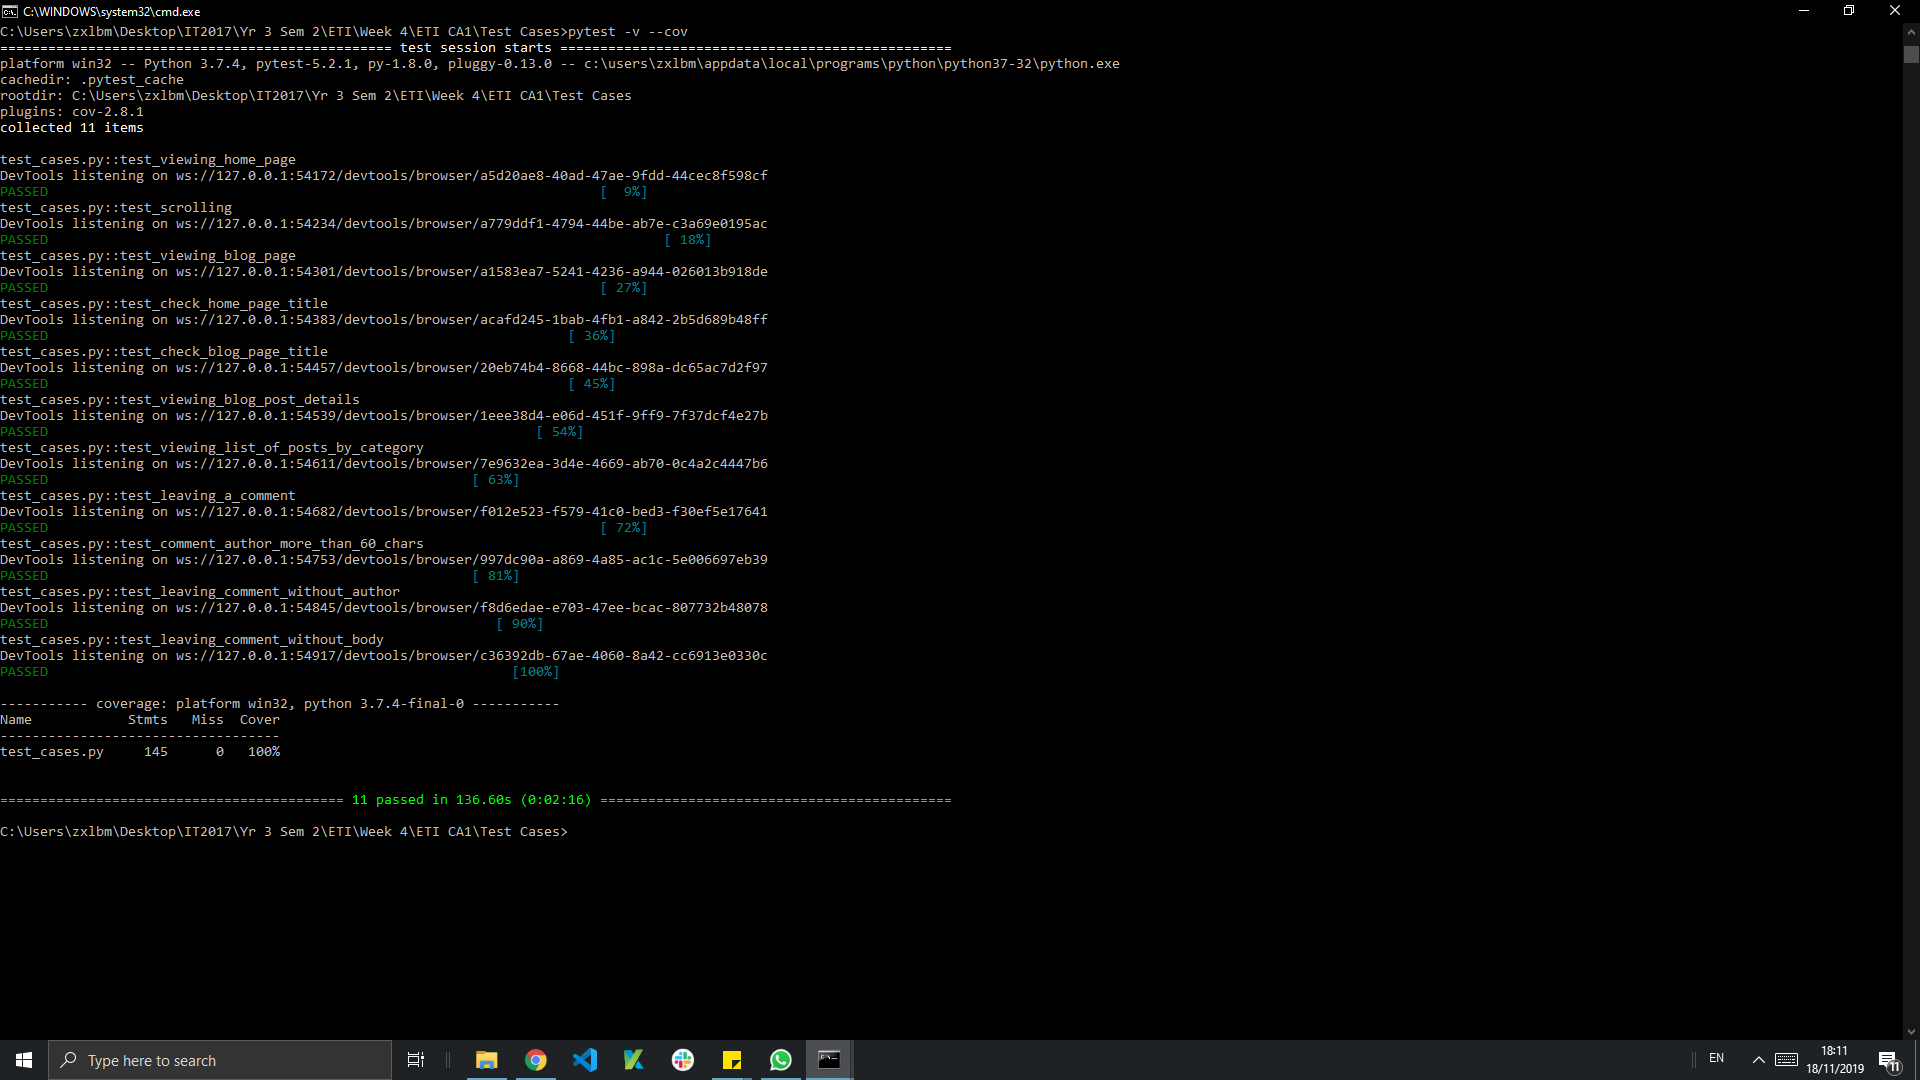
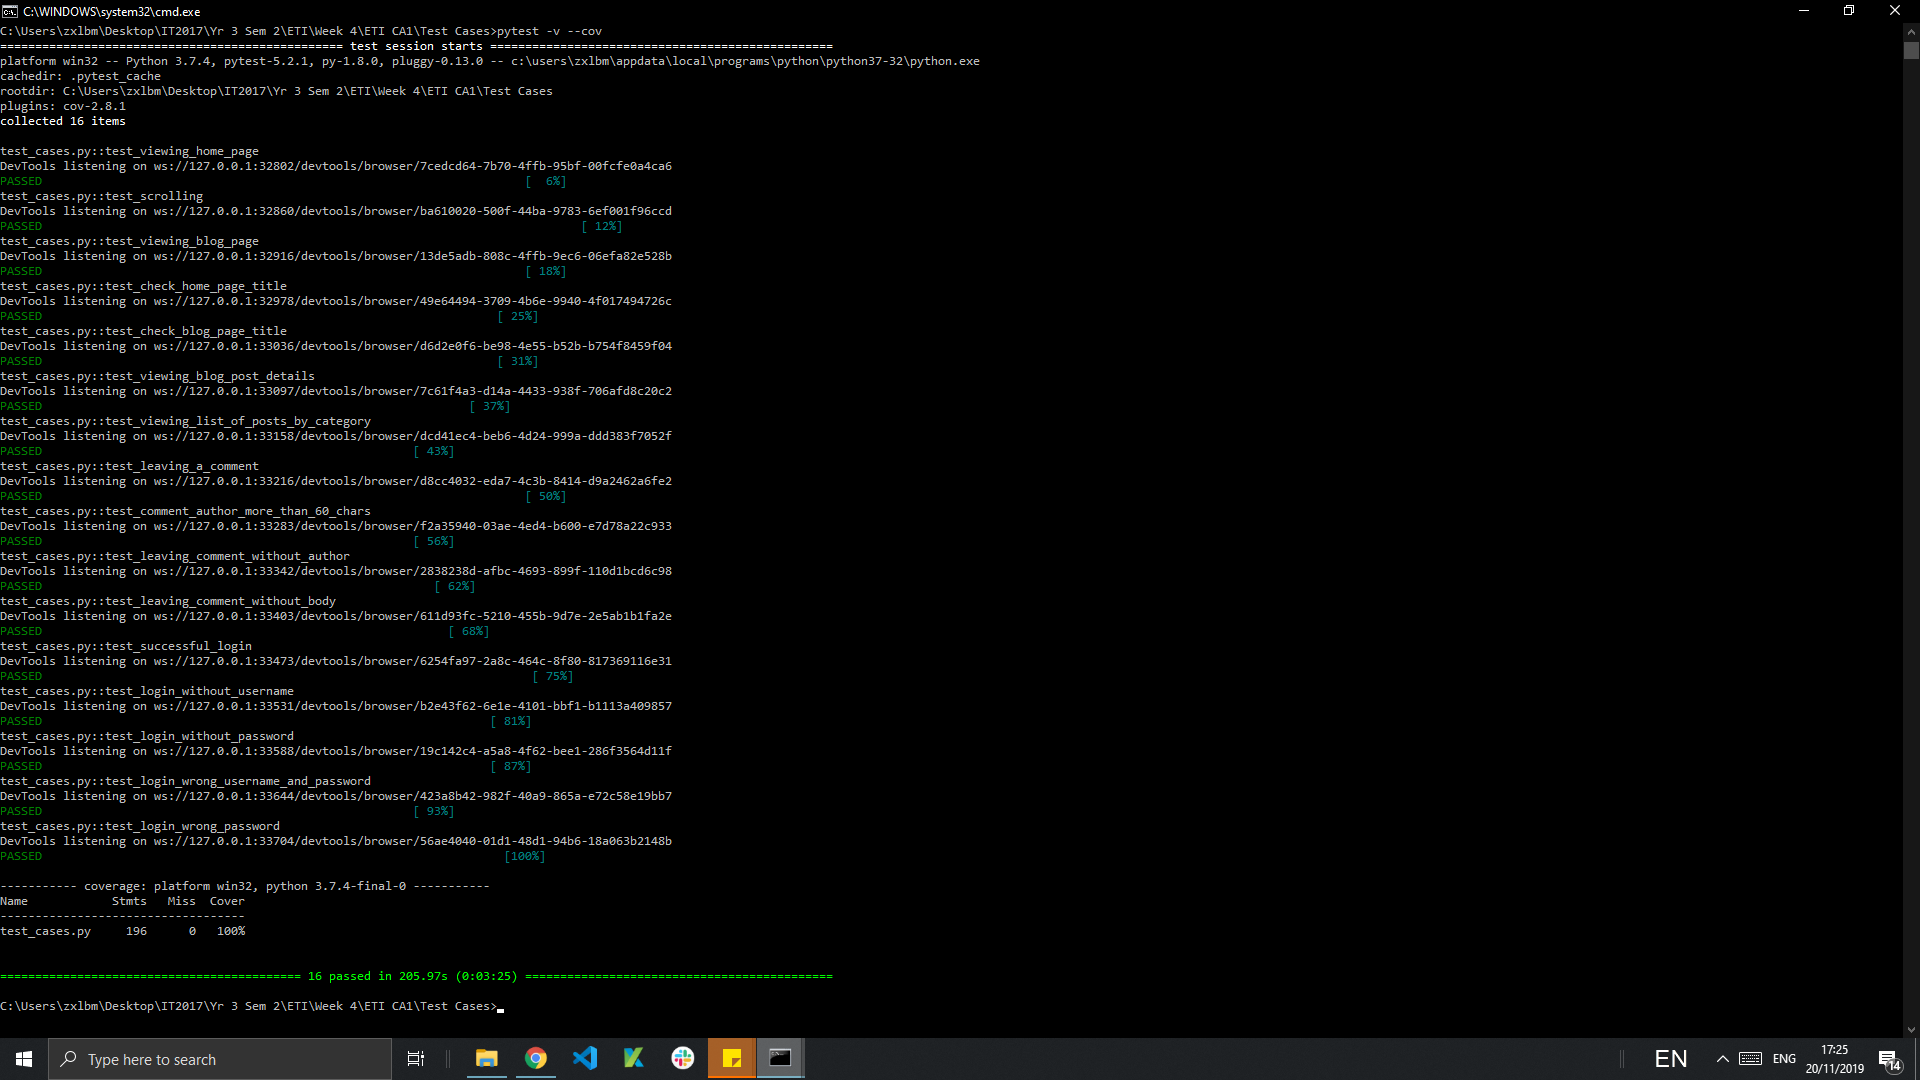
added login test cases and updated Test Outputs.png and test cases.xlsx

diff --git a/Test Cases/test_cases.py b/Test Cases/test_cases.py
@@ -212,3 +212,86 @@ def test_leaving_comment_without_body():
     assert driver.find_element_by_css_selector("textarea:invalid")
 
     driver.quit()
+
+def test_successful_login():
+    driver = webdriver.Chrome()
+    driver.maximize_window()
+    driver.get("http://localhost:8000/admin")
+
+    username_txtfld_elem = driver.find_element_by_name("username")
+    username_txtfld_elem.send_keys("zxnlee")
+
+    password_txtfld_elem = driver.find_element_by_name("password")
+    password_txtfld_elem.send_keys("P@ssw0rd")
+
+    password_txtfld_elem.send_keys(Keys.RETURN)
+
+    assert WebDriverWait(driver, 10).until(EC.presence_of_element_located((By.XPATH, "//h1[text()[contains(., 'Site administration')]]")))
+
+    driver.quit()
+    
+def test_login_without_username():
+    driver = webdriver.Chrome()
+    driver.maximize_window()
+    driver.get("http://localhost:8000/admin")
+
+    username_txtfld_elem = driver.find_element_by_name("username")
+    username_txtfld_elem.send_keys(Keys.RETURN)
+
+    assert driver.find_element_by_css_selector("input:invalid")
+
+    driver.quit()
+
+def test_login_without_password():
+    driver = webdriver.Chrome()
+    driver.maximize_window()
+    driver.get("http://localhost:8000/admin")
+
+    username_txtfld_elem = driver.find_element_by_name("username")
+    username_txtfld_elem.send_keys("zxnlee")
+
+    password_txtfld_elem = driver.find_element_by_name("password")
+
+    password_txtfld_elem.send_keys(Keys.RETURN)
+
+    assert driver.find_element_by_css_selector("input:invalid")
+
+    driver.quit()
+
+def test_login_wrong_username_and_password():
+    driver = webdriver.Chrome()
+    driver.maximize_window()
+    driver.get("http://localhost:8000/admin")
+
+    username_txtfld_elem = driver.find_element_by_name("username")
+    username_txtfld_elem.send_keys("testuser1")
+
+    password_txtfld_elem = driver.find_element_by_name("password")
+    password_txtfld_elem.send_keys("password")
+
+    password_txtfld_elem.send_keys(Keys.RETURN)
+
+    assert driver.page_source.find("Please enter the correct username\
+                                   and password for a staff account. Note\
+                                   that both fields may be case-sensitive.")
+
+    driver.quit()
+
+def test_login_wrong_password():
+    driver = webdriver.Chrome()
+    driver.maximize_window()
+    driver.get("http://localhost:8000/admin")
+
+    username_txtfld_elem = driver.find_element_by_name("username")
+    username_txtfld_elem.send_keys("zxnlee")
+
+    password_txtfld_elem = driver.find_element_by_name("password")
+    password_txtfld_elem.send_keys("password")
+
+    password_txtfld_elem.send_keys(Keys.RETURN)
+
+    assert driver.page_source.find("Please enter the correct username\
+                                   and password for a staff account. Note\
+                                   that both fields may be case-sensitive.")
+
+    driver.quit()
